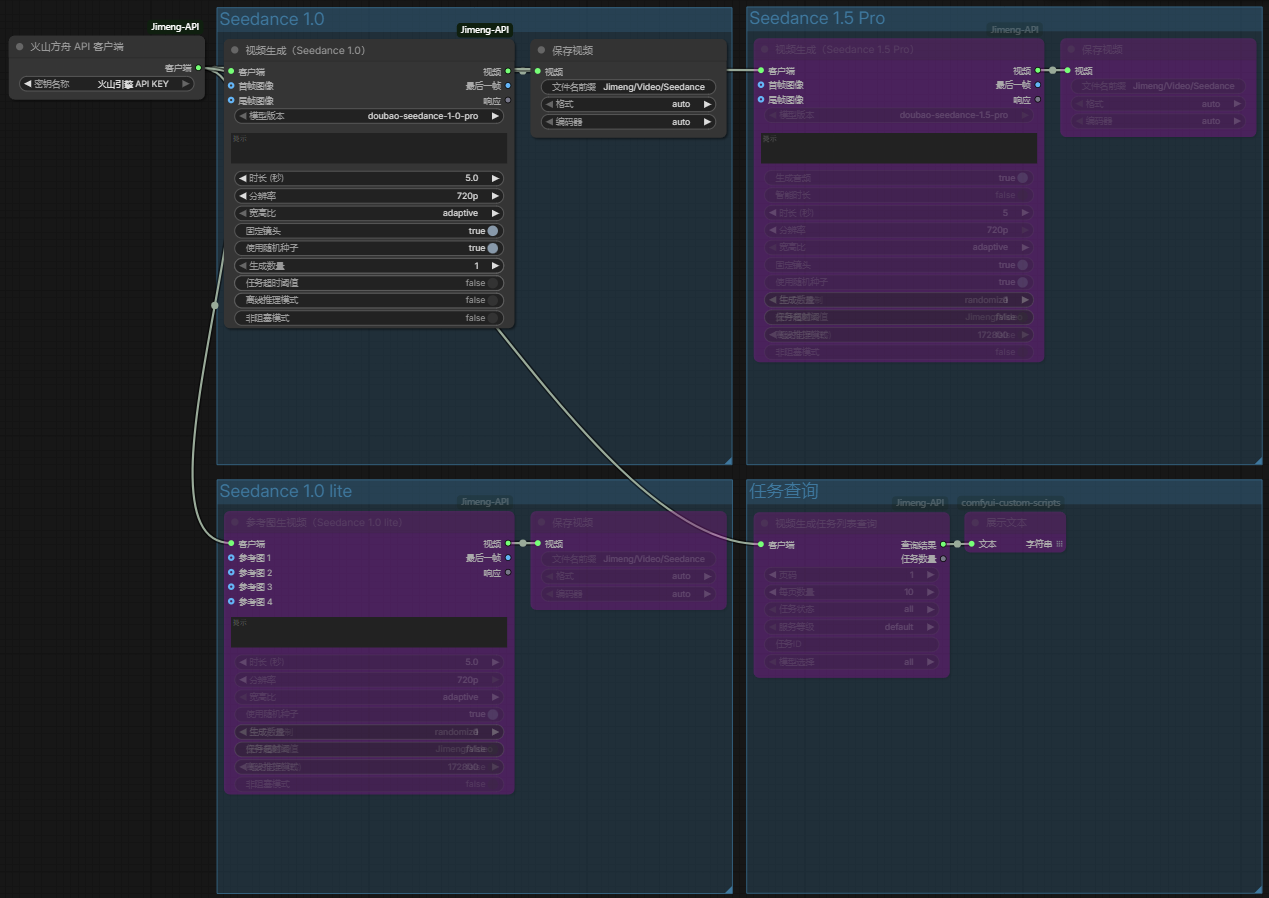
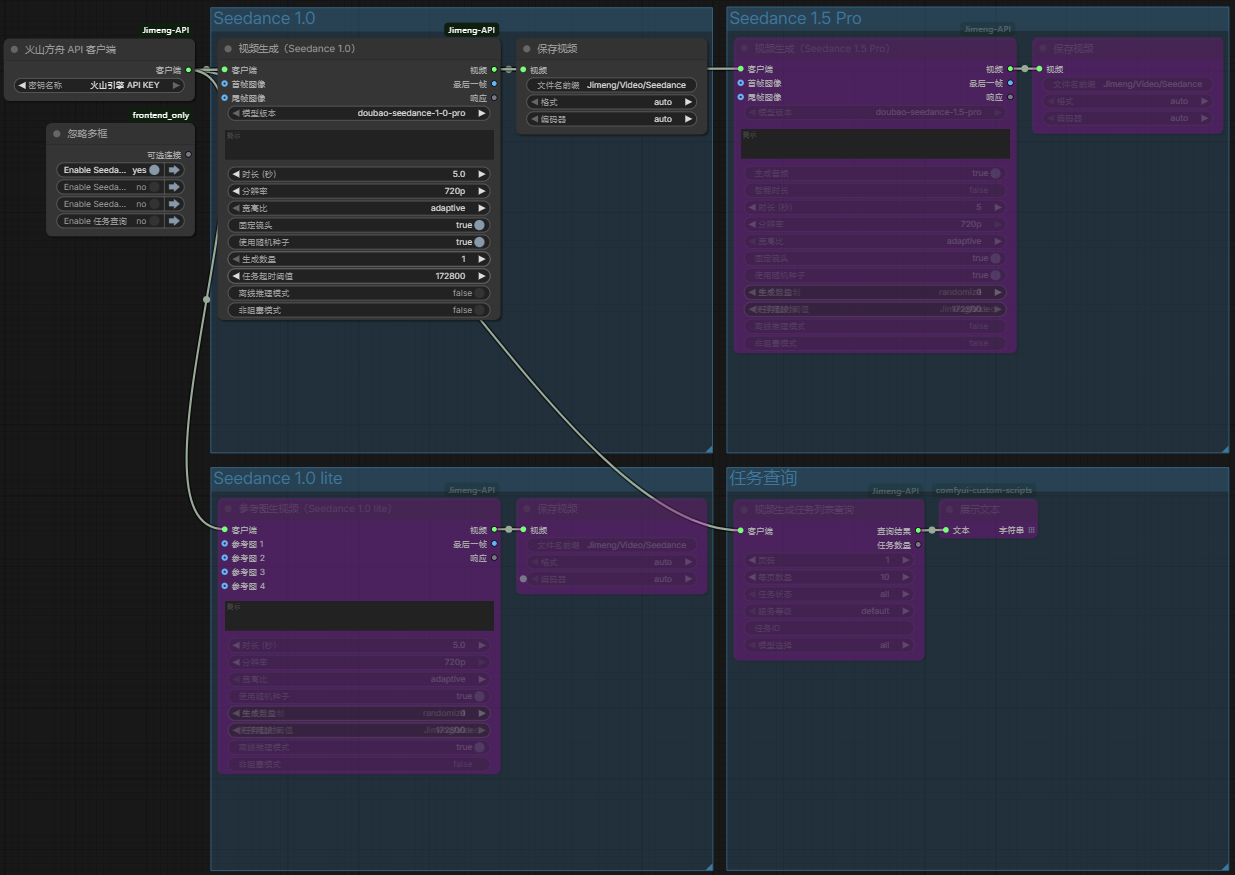
优化使用体验

diff --git a/web/js/jimeng_dynamic_widgets.js b/web/js/jimeng_dynamic_widgets.js
@@ -1,7 +1,20 @@
 import { app } from "/scripts/app.js";
 
+// 定义需监听的组件名称列表
+const TARGET_WIDGETS = [
+    'size', 
+    'enable_group_generation', 
+    'generation_count', 
+    'enable_timeout_setting', 
+    'enable_random_seed', 
+    'auto_duration'
+];
+
 /**
- * 根据名称查找组件
+ * 根据名称查找组件实例
+ * @param {object} node - 节点实例
+ * @param {string} name - 组件名称
+ * @returns {object|null} - 找到的组件或 null
  */
 function findWidgetByName(node, name) {
     if (!node.widgets) return null;
@@ -9,21 +22,31 @@ function findWidgetByName(node, name) {
 }
 
 /**
- * 切换组件可见性
+ * 切换组件可见性状态
+ * @param {object} node - 节点实例
+ * @param {object} widget - 目标组件
+ * @param {boolean} show - 是否显示
+ * @returns {boolean} - 状态是否发生实质变更
  */
 function toggleWidget(node, widget, show) {
-    if (!widget) return;
+    if (!widget) return false;
 
-    // 备份原始类型和尺寸计算函数
+    // 缓存组件原始类型与尺寸计算方法
     if (!widget.origType && widget.type !== "hidden") {
         widget.origType = widget.type;
         widget.origComputeSize = widget.computeSize;
     }
 
+    // 若无原始状态缓存且当前已隐藏，无法恢复，视为无变更
     if (!widget.origType && widget.type === "hidden") {
-        return;
+        return false;
     }
 
+    // 检查目标状态与当前状态是否一致，若一致则无需变更
+    const isCurrentlyHidden = widget.type === "hidden";
+    if (show !== isCurrentlyHidden) return false;
+
+    // 执行状态切换
     if (show) {
         widget.type = widget.origType;
         widget.computeSize = widget.origComputeSize;
@@ -31,93 +54,113 @@ function toggleWidget(node, widget, show) {
         widget.type = "hidden";
         widget.computeSize = () => [0, -4];
     }
+
+    return true;
 }
 
 /**
- * 更新节点高度
+ * 更新节点高度，并保留用户手动调整的额外空间
+ * @param {object} node - 节点实例
+ * @param {number} extraHeight - 用户手动拉伸的额外高度补偿值
  */
-function updateNodeHeight(node) {
-    if (node.flags && node.flags.collapsed) return;
+function updateNodeHeight(node, extraHeight = 0) {
+    if (node.flags?.collapsed) return;
 
+    // 计算基础最小所需尺寸
     const size = node.computeSize();
-    node.setSize([node.size[0], size[1]]);
+    
+    // 叠加用户手动调整的高度差，确保布局变更时不丢失拉伸空间
+    const targetHeight = size[1] + extraHeight;
+
+    node.setSize([node.size[0], targetHeight]);
     app.graph.setDirtyCanvas(true, true);
 }
 
-// 添加了 'auto_duration'
-const TARGET_WIDGETS = ['size', 'enable_group_generation', 'generation_count', 'enable_timeout_setting', 'enable_random_seed', 'auto_duration'];
-
 /**
- * 处理组件联动逻辑
+ * 执行组件联动逻辑
+ * @param {object} node - 节点实例
+ * @param {object} widget - 触发变更的组件
  */
 function widgetLogic(node, widget) {
-    // 图像节点逻辑
+    // 1. 计算布局变更前的高度差（Current Height Delta）
+    // 用于在重绘时恢复用户手动拉伸的尺寸
+    let extraHeight = 0;
+    if (node.size && node.computeSize && !node.flags?.collapsed) {
+        const currentMinHeight = node.computeSize()[1];
+        const currentActualHeight = node.size[1];
+        // 修正非正值，防止计算异常
+        extraHeight = Math.max(0, currentActualHeight - currentMinHeight);
+    }
+
+    let shouldResize = false; 
+
+    // 处理图像生成节点逻辑
     if (node.comfyClass === "JimengSeedream3" || node.comfyClass === "JimengSeedream4") {
         if (widget.name === 'size') {
             const isCustom = widget.value === "Custom";
             const widthWidget = findWidgetByName(node, 'width');
             const heightWidget = findWidgetByName(node, 'height');
 
-            if (widthWidget) toggleWidget(node, widthWidget, isCustom);
-            if (heightWidget) toggleWidget(node, heightWidget, isCustom);
+            const changedW = toggleWidget(node, widthWidget, isCustom);
+            const changedH = toggleWidget(node, heightWidget, isCustom);
+            
+            if (changedW || changedH) shouldResize = true;
         }
     }
 
-    // 分组生成逻辑
+    // 处理分组生成逻辑
     if (node.comfyClass === "JimengSeedream4") {
         if (widget.name === 'enable_group_generation') {
             const isGroupMode = widget.value === true;
             const maxImagesWidget = findWidgetByName(node, 'max_images');
 
-            if (maxImagesWidget) toggleWidget(node, maxImagesWidget, isGroupMode);
+            if (toggleWidget(node, maxImagesWidget, isGroupMode)) shouldResize = true;
         }
     }
 
-    // 视频节点逻辑：加入了 JimengSeedance1_5
-    if (node.comfyClass === "JimengSeedance1" || node.comfyClass === "JimengReferenceImage2Video" || node.comfyClass === "JimengSeedance1_5") {
+    // 处理视频生成节点逻辑
+    if (node.comfyClass === "JimengSeedance1" || 
+        node.comfyClass === "JimengReferenceImage2Video" || 
+        node.comfyClass === "JimengSeedance1_5") {
 
-        // 1.5 特有逻辑：智能时长
+        // 1.5版本特定逻辑：智能时长控制
         if (widget.name === 'auto_duration') {
             const isAuto = widget.value === true;
             const durationWidget = findWidgetByName(node, 'duration');
-
-            // 启用智能时长时,隐藏 duration (show = !isAuto)
-            if (durationWidget) toggleWidget(node, durationWidget, !isAuto);
+            if (toggleWidget(node, durationWidget, !isAuto)) shouldResize = true;
         }
 
-        // 通用逻辑：生成数量 > 1 显示批量保存选项
+        // 通用逻辑：批量生成选项联动
         if (widget.name === 'generation_count') {
             const isBatch = widget.value > 1;
-
             const batchPathWidget = findWidgetByName(node, 'filename_prefix');
             const saveLastFrameWidget = findWidgetByName(node, 'save_last_frame_batch');
 
-            if (batchPathWidget) toggleWidget(node, batchPathWidget, isBatch);
-            if (saveLastFrameWidget) toggleWidget(node, saveLastFrameWidget, isBatch);
+            const changedPath = toggleWidget(node, batchPathWidget, isBatch);
+            const changedSave = toggleWidget(node, saveLastFrameWidget, isBatch);
+            
+            if (changedPath || changedSave) shouldResize = true;
         }
 
-        // 通用逻辑：超时设置
-        if (widget.name === 'enable_timeout_setting') {
-            const isTimeoutEnabled = widget.value === true;
-            const timeoutWidget = findWidgetByName(node, 'timeout_seconds');
-
-            if (timeoutWidget) toggleWidget(node, timeoutWidget, isTimeoutEnabled);
-        }
-
-        // 通用逻辑：随机种子
+        // 通用逻辑：随机种子控制联动
         if (widget.name === 'enable_random_seed') {
             const useRandom = widget.value === true;
             const showSeedControls = !useRandom;
-
+            
             const seedWidget = findWidgetByName(node, 'seed');
             const controlWidget = findWidgetByName(node, 'control_after_generate');
-
-            if (seedWidget) toggleWidget(node, seedWidget, showSeedControls);
-            if (controlWidget) toggleWidget(node, controlWidget, showSeedControls);
+            
+            const changedSeed = toggleWidget(node, seedWidget, showSeedControls);
+            const changedControl = toggleWidget(node, controlWidget, showSeedControls);
+            
+            if (changedSeed || changedControl) shouldResize = true;
         }
     }
 
-    updateNodeHeight(node);
+    // 2. 若检测到布局实质变更，应用新尺寸并恢复高度差
+    if (shouldResize) {
+        updateNodeHeight(node, extraHeight);
+    }
 }
 
 app.registerExtension({
@@ -130,17 +173,18 @@ app.registerExtension({
     nodeCreated(node) {
         if (!node.comfyClass.startsWith("Jimeng")) return;
 
+        // 筛选需监听的组件
         const widgetsToWatch = node.widgets?.filter(w => TARGET_WIDGETS.includes(w.name));
 
         if (!widgetsToWatch || widgetsToWatch.length === 0) return;
 
         widgetsToWatch.forEach(w => {
-            // 延迟初始化以确保组件就绪
+            // 延迟初始化以确保组件状态就绪
             setTimeout(() => {
                 widgetLogic(node, w);
             }, 100);
 
-            // 监听值变更
+            // 劫持 value 属性以监听变更
             let widgetValue = w.value;
             Object.defineProperty(w, 'value', {
                 get() {

diff --git a/nodes_video.py b/nodes_video.py
@@ -228,9 +228,9 @@ class JimengVideoBase:
             msg = get_text("popup_task_pending").format(task_id=task_id, status=status)
         raise RuntimeError(msg)
 
-    def _get_service_options(self, enable_offline, enable_timeout, timeout_seconds):
+    def _get_service_options(self, enable_offline, timeout_seconds):
         service_tier = "flex" if enable_offline else "default"
-        execution_expires_after = timeout_seconds if enable_timeout else None
+        execution_expires_after = timeout_seconds
         return service_tier, execution_expires_after
 
     def _append_image_content(self, content_list, image, role):
@@ -867,7 +867,6 @@ class JimengSeedance1(JimengVideoBase, comfy_io.ComfyNode):
                 comfy_io.Int.Input("generation_count", default=1, min=1),
                 comfy_io.String.Input("filename_prefix", default="Jimeng/Video"),
                 comfy_io.Boolean.Input("save_last_frame_batch", default=False),
-                comfy_io.Boolean.Input("enable_timeout_setting", default=False),
                 comfy_io.Int.Input(
                     "timeout_seconds", default=172800, min=3600, max=259200
                 ),
@@ -899,7 +898,6 @@ class JimengSeedance1(JimengVideoBase, comfy_io.ComfyNode):
         generation_count,
         filename_prefix,
         save_last_frame_batch,
-        enable_timeout_setting,
         timeout_seconds,
         enable_offline_inference,
         non_blocking,
@@ -932,7 +930,7 @@ class JimengSeedance1(JimengVideoBase, comfy_io.ComfyNode):
             helper._append_image_content(content, last_frame_image, "last_frame")
 
         service_tier, execution_expires_after = helper._get_service_options(
-            enable_offline_inference, enable_timeout_setting, timeout_seconds
+            enable_offline_inference, timeout_seconds
         )
 
         return await helper._common_generation_logic(
@@ -1015,7 +1013,6 @@ class JimengSeedance1_5(JimengVideoBase, comfy_io.ComfyNode):
                 comfy_io.Int.Input("generation_count", default=1, min=1),
                 comfy_io.String.Input("filename_prefix", default="Jimeng/Video"),
                 comfy_io.Boolean.Input("save_last_frame_batch", default=False),
-                comfy_io.Boolean.Input("enable_timeout_setting", default=False),
                 comfy_io.Int.Input(
                     "timeout_seconds", default=172800, min=3600, max=259200
                 ),
@@ -1049,7 +1046,6 @@ class JimengSeedance1_5(JimengVideoBase, comfy_io.ComfyNode):
         generation_count,
         filename_prefix,
         save_last_frame_batch,
-        enable_timeout_setting,
         timeout_seconds,
         enable_offline_inference,
         non_blocking,
@@ -1075,7 +1071,7 @@ class JimengSeedance1_5(JimengVideoBase, comfy_io.ComfyNode):
             helper._append_image_content(content, last_frame_image, "last_frame")
 
         service_tier, execution_expires_after = helper._get_service_options(
-            enable_offline_inference, enable_timeout_setting, timeout_seconds
+            enable_offline_inference, timeout_seconds
         )
 
         final_duration = -1.0 if auto_duration else float(duration)
@@ -1150,7 +1146,6 @@ class JimengReferenceImage2Video(JimengVideoBase, comfy_io.ComfyNode):
                 comfy_io.Int.Input("generation_count", default=1, min=1),
                 comfy_io.String.Input("filename_prefix", default="Jimeng/Video"),
                 comfy_io.Boolean.Input("save_last_frame_batch", default=False),
-                comfy_io.Boolean.Input("enable_timeout_setting", default=False),
                 comfy_io.Int.Input(
                     "timeout_seconds", default=172800, min=3600, max=259200
                 ),
@@ -1182,7 +1177,6 @@ class JimengReferenceImage2Video(JimengVideoBase, comfy_io.ComfyNode):
         generation_count,
         filename_prefix,
         save_last_frame_batch,
-        enable_timeout_setting,
         timeout_seconds,
         enable_offline_inference,
         non_blocking,
@@ -1205,7 +1199,7 @@ class JimengReferenceImage2Video(JimengVideoBase, comfy_io.ComfyNode):
             raise ValueError(get_text("popup_ref_missing"))
 
         service_tier, execution_expires_after = helper._get_service_options(
-            enable_offline_inference, enable_timeout_setting, timeout_seconds
+            enable_offline_inference, timeout_seconds
         )
 
         return await helper._common_generation_logic(
@@ -1261,6 +1255,7 @@ class JimengVideoQueryTasks(comfy_io.ComfyNode):
                 comfy_io.Combo.Input(
                     "model_version", options=cls.MODELS, default="all"
                 ),
+                comfy_io.Int.Input("seed", default=0, min=0, max=4294967295),
             ],
             outputs=[
                 comfy_io.String.Output(display_name="task_list_json"),
@@ -1278,6 +1273,7 @@ class JimengVideoQueryTasks(comfy_io.ComfyNode):
         service_tier,
         task_ids,
         model_version,
+        seed,
     ) -> comfy_io.NodeOutput:
         ark_client = client.ark
         base_kwargs = {"page_num": page_num, "page_size": page_size}

diff --git a/__init__.py b/__init__.py
@@ -7,7 +7,6 @@ from .constants import LOG_TRANSLATIONS
 # V3 API 引入
 from comfy_api.latest import ComfyExtension
 
-# 导入所有迁移后的节点类
 from .nodes_shared import JimengAPIClient
 from .nodes_image import JimengSeedream3, JimengSeedream4
 from .nodes_video import JimengSeedance1, JimengSeedance1_5,JimengReferenceImage2Video, JimengVideoQueryTasks
@@ -86,6 +85,5 @@ class JimengExtension(ComfyExtension):
 async def comfy_entrypoint() -> ComfyExtension:
     return JimengExtension()
 
-# 保留 Web 目录配置,供前端资源加载使用
 WEB_DIRECTORY = "./web"
 __all__ = ["WEB_DIRECTORY"]
